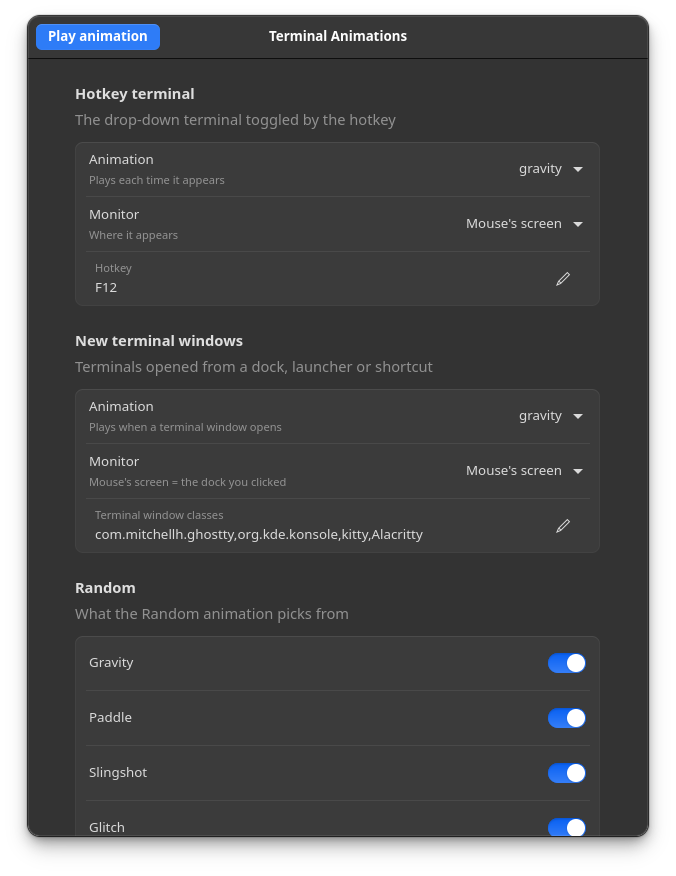
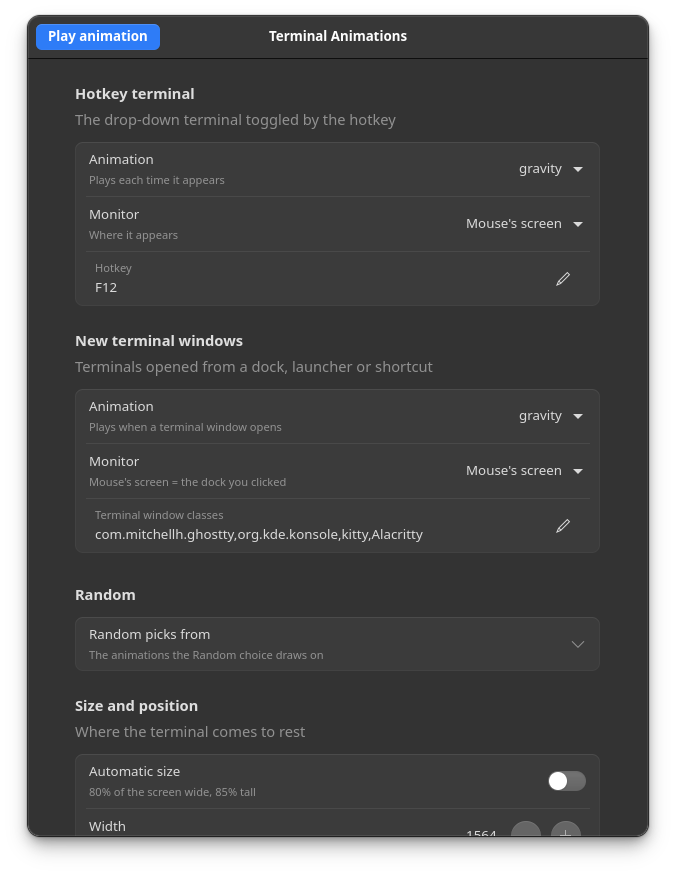
Add slide, shake, pendulum, orbit and yoyo animations

diff --git a/kwin-script/contents/v6/main.qml b/kwin-script/contents/v6/main.qml
@@ -13,10 +13,10 @@ Item {
     readonly property string hotkeyClass: cfg("hotkeyClass", "dev.termanim.dropdown")
     readonly property string hotkey: cfg("hotkey", "F12")
 
-    // animation per trigger: gravity | paddle | fade | slingshot | glitch | random
+    // animation per trigger: gravity | paddle | fade | slingshot | glitch | slide | shake | pendulum | orbit | yoyo | random
     readonly property string newWindowAnimation: cfg("newWindowAnimation", "gravity")
     readonly property string hotkeyAnimation: cfg("hotkeyAnimation", "gravity")
-    readonly property var randomPool: String(cfg("randomPool", "gravity,paddle,fade,slingshot,glitch")).split(",").map(s => s.trim()).filter(s => s.length > 0)
+    readonly property var randomPool: String(cfg("randomPool", "gravity,paddle,fade,slingshot,glitch,slide,shake,pendulum,orbit,yoyo")).split(",").map(s => s.trim()).filter(s => s.length > 0)
 
     // monitor per trigger: "cursor" (screen the mouse is on) or an output name such as DP-3
     readonly property string newWindowScreen: cfg("newWindowScreen", "cursor")
@@ -38,6 +38,11 @@ Item {
     readonly property real stiffness: num("slingshotStiffness", 300)   // slingshot: spring pull (higher = snappier)
     readonly property real damping: num("slingshotDamping", 11)        // slingshot: friction (lower = more overshoot)
     readonly property real glitchTime: num("glitchTime", 0.6)
+    readonly property real slideTime: num("slideTime", 0.5)             // slide: seconds to glide down
+    readonly property real shakeTime: num("shakeTime", 0.7)             // shake: seconds of rattling
+    readonly property real shakeStrength: num("shakeStrength", 40)      // shake: starting amplitude in pixels
+    readonly property real pendulumSwing: num("pendulumSwing", 55)      // pendulum: starting angle in degrees
+    readonly property real orbitTime: num("orbitTime", 1.8)             // orbit: seconds spent spiraling in
 
     property var anims: []
     property var pending: []
@@ -70,6 +75,19 @@ Item {
         return null;
     }
 
+    // top-left corner of the window when the pendulum hangs at angle theta
+    function pendulumPos(a, theta) {
+        return Qt.point(a.pivot.x + a.len * Math.sin(theta) - a.w / 2, a.pivot.y + a.len * Math.cos(theta) - a.h / 2);
+    }
+
+    // top-left corner on the inward spiral; t runs 0..1
+    function orbitPos(a, t) {
+        const g = a.area;
+        const radius = Math.pow(1 - t, 1.5);
+        const angle = -Math.PI / 2 + a.dir * 2 * Math.PI * 1.5 * (1 - Math.pow(1 - t, 2));
+        return Qt.point(a.rest.x + g.width * 0.38 * radius * Math.cos(angle), a.rest.y + g.height * 0.3 * radius * Math.sin(angle));
+    }
+
     function start(win, screen, animation) {
         const g = screen.geometry;
         const w = restW > 0 ? restW : Math.round(g.width * 0.8);
@@ -93,6 +111,20 @@ Item {
             else a.py = g.y + g.height + 50;
         } else if (a.mode === "glitch") {
             a.px = a.rest.x; a.py = a.rest.y; a.next = 0; a.ox = 0; a.oy = 0; a.op = 0;
+        } else if (a.mode === "slide" || a.mode === "yoyo") {
+            a.px = a.rest.x; a.py = g.y - h;
+        } else if (a.mode === "shake") {
+            a.px = a.rest.x; a.py = a.rest.y;
+        } else if (a.mode === "pendulum") {
+            a.pivot = Qt.point(a.rest.x + w / 2, g.y - 150);           // hangs from a point above the screen
+            a.len = a.rest.y + h / 2 - a.pivot.y;
+            a.theta0 = (Math.random() < 0.5 ? -1 : 1) * pendulumSwing * Math.PI / 180;
+            const p = pendulumPos(a, a.theta0);
+            a.px = p.x; a.py = p.y;
+        } else if (a.mode === "orbit") {
+            a.dir = Math.random() < 0.5 ? -1 : 1;
+            const p = orbitPos(a, 0);
+            a.px = p.x; a.py = p.y;
         } else {
             a.px = a.rest.x; a.py = a.rest.y + 40;
         }
@@ -120,7 +152,36 @@ Item {
         const h = a.h;
         a.elapsed += dt;
         let x = a.px, y = a.py, done = false;
-        if (a.mode === "slingshot") {
+        if (a.mode === "slide") {
+            const t = Math.min(1, a.elapsed / slideTime);
+            const e = 1 - Math.pow(1 - t, 3);
+            x = a.rest.x; y = a.py + (a.rest.y - a.py) * e;
+            if (t >= 1) done = true;
+        } else if (a.mode === "yoyo") {
+            // dropped on a spring from above: falls past its spot, springs back, bobs to rest
+            const k = stiffness, c = damping * 0.55;
+            a.vy += (-k * (a.py - a.rest.y) - c * a.vy) * dt;
+            a.py += a.vy * dt;
+            x = a.rest.x; y = a.py;
+            if ((Math.abs(a.py - a.rest.y) < 1.5 && Math.abs(a.vy) < 8) || a.elapsed > 4) { y = a.rest.y; done = true; }
+        } else if (a.mode === "shake") {
+            const t = Math.min(1, a.elapsed / shakeTime);
+            const amp = shakeStrength * Math.pow(1 - t, 2);
+            x = a.rest.x + Math.sin(a.elapsed * 70) * amp;
+            y = a.rest.y + Math.cos(a.elapsed * 53) * amp * 0.4;
+            a.win.opacity = Math.min(1, a.elapsed / 0.12);
+            if (t >= 1) { x = a.rest.x; y = a.rest.y; a.win.opacity = 1; done = true; }
+        } else if (a.mode === "pendulum") {
+            const theta = a.theta0 * Math.exp(-1.1 * a.elapsed) * Math.cos(3.6 * a.elapsed);
+            const p = pendulumPos(a, theta);
+            x = p.x; y = p.y;
+            if ((a.elapsed > 1 && Math.abs(theta) * a.len < 1.5) || a.elapsed > 4) { x = a.rest.x; y = a.rest.y; done = true; }
+        } else if (a.mode === "orbit") {
+            const t = Math.min(1, a.elapsed / orbitTime);
+            const p = orbitPos(a, t);
+            x = p.x; y = p.y;
+            if (t >= 1) { x = a.rest.x; y = a.rest.y; done = true; }
+        } else if (a.mode === "slingshot") {
             // underdamped spring toward the resting spot: flies in fast, overshoots, snaps back
             a.vx += (-stiffness * (a.px - a.rest.x) - damping * a.vx) * dt;
             a.vy += (-stiffness * (a.py - a.rest.y) - damping * a.vy) * dt;
@@ -175,7 +236,7 @@ Item {
             x = r.x; y = r.y; done = r.done;
         }
         a.win.frameGeometry = Qt.rect(x, y, w, h);
-        if (a.mode !== "fade" && a.mode !== "glitch") a.win.opacity = 1;   // revealed only once it is in motion, not at its default spot
+        if (a.mode !== "fade" && a.mode !== "glitch" && a.mode !== "shake") a.win.opacity = 1;   // revealed only once it is in motion, not at its default spot
         return !done;
     }
 

diff --git a/README.md b/README.md
@@ -13,6 +13,11 @@ Animated terminals for KDE Plasma (Wayland). Terminal windows fall, bounce, slin
 | `slingshot` | Flies in from a random edge, overshoots, snaps back (a damped spring). |
 | `glitch` | Flickers in and out with random jumps that shrink until it locks in. |
 | `fade` | Fades in with a short upward slide. |
+| `slide` | Glides down from the top edge and eases to a stop, like a classic drop-down terminal. |
+| `shake` | Appears in place and rattles, settling as the shaking dies down. |
+| `pendulum` | Swings in on an arc from above the screen, like a wrecking ball, and settles. |
+| `orbit` | Spirals in from the edge of the screen, circling inward about one and a half times. |
+| `yoyo` | Drops on a spring from above, falls past its spot, and bobs back to rest. |
 | `random` | Picks from `randomPool`, never the same twice in a row. |
 
 Each trigger has its own animation: **new terminal windows** (any app in `terminalClasses`, so launching Ghostty from a dock plays it) and the **hotkey terminal** (F12). Either can use the monitor your cursor is on, so clicking a dock icon on a screen makes the window arrive on that screen, or a fixed monitor.
@@ -40,7 +45,7 @@ Open **Terminal Animations** from your app menu, or run `termanim-settings`. Cha
 
 <img src="media/settings.png" alt="termanim settings window" width="420">
 
-It covers the animation and monitor for the hotkey terminal and for new windows, the hotkey, which window classes animate, the pool for random, size and position, and the physics tuning for each animation.
+It covers the animation and monitor for the hotkey terminal and for new windows, the hotkey, which window classes animate, the pool for random, size and position, and the tuning for each animation.
 
 ## Command line
 
